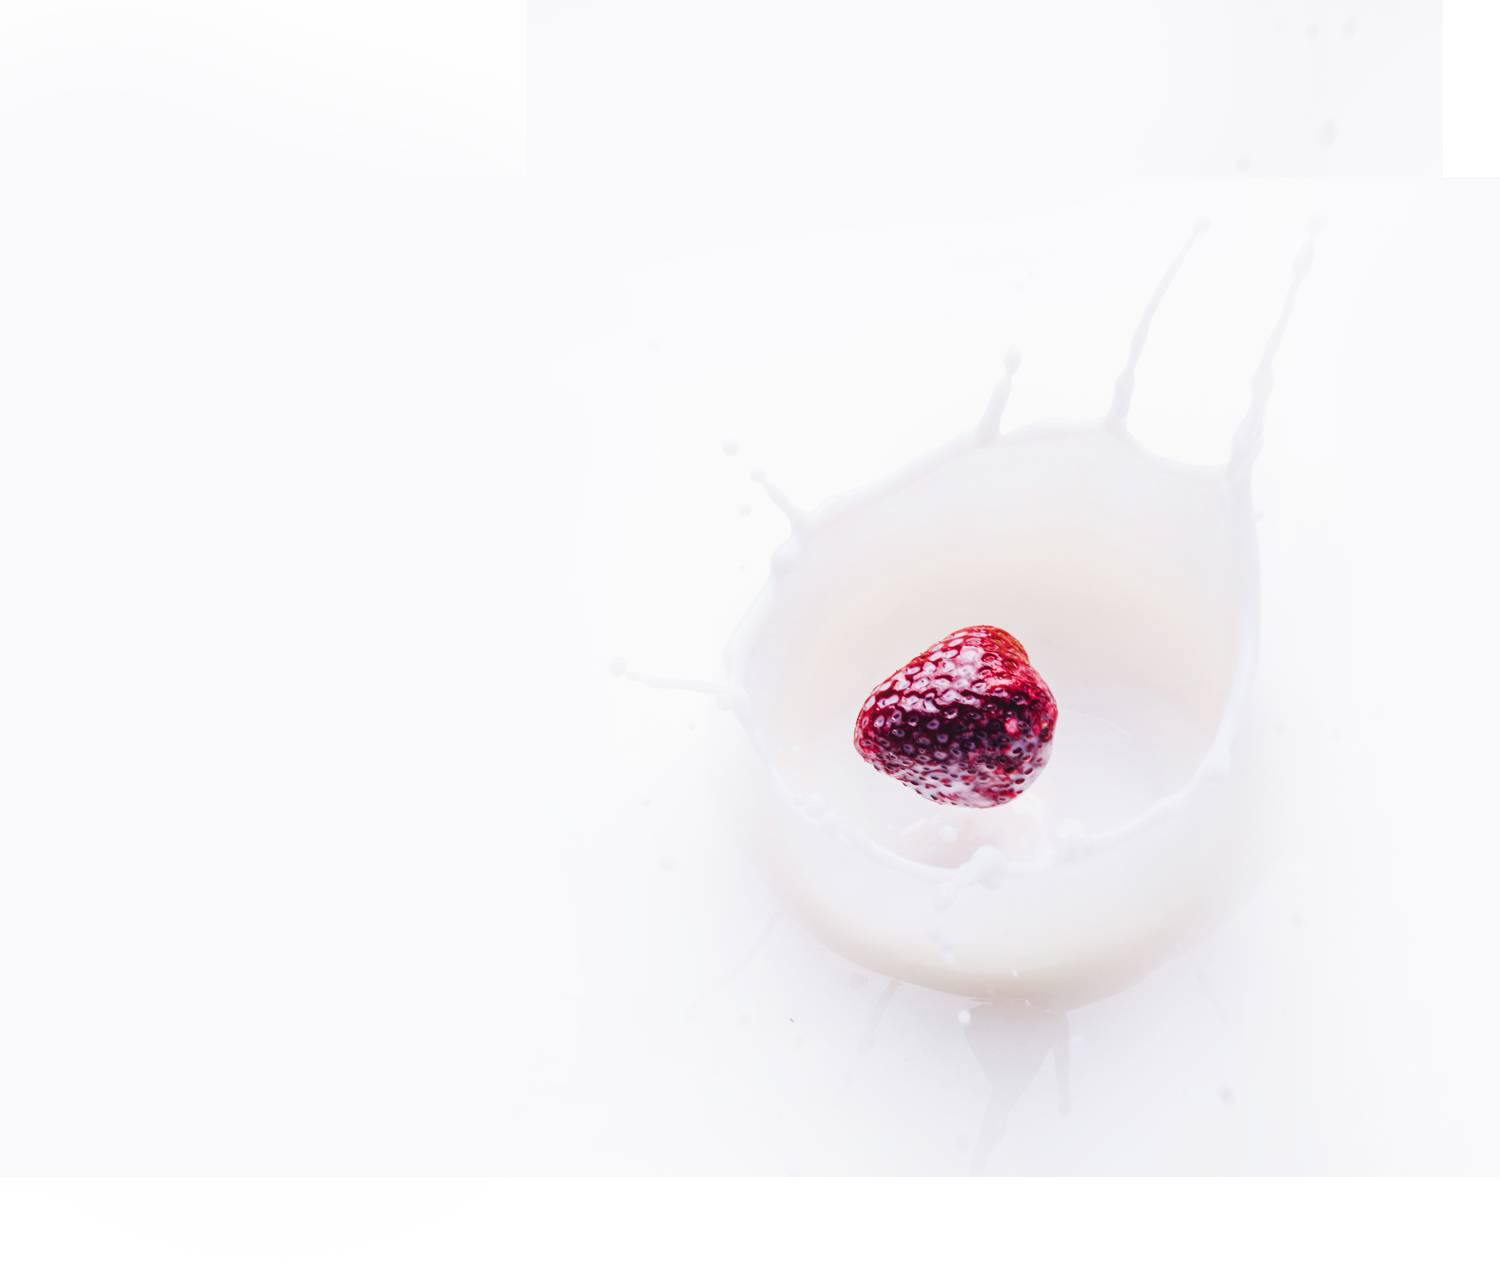
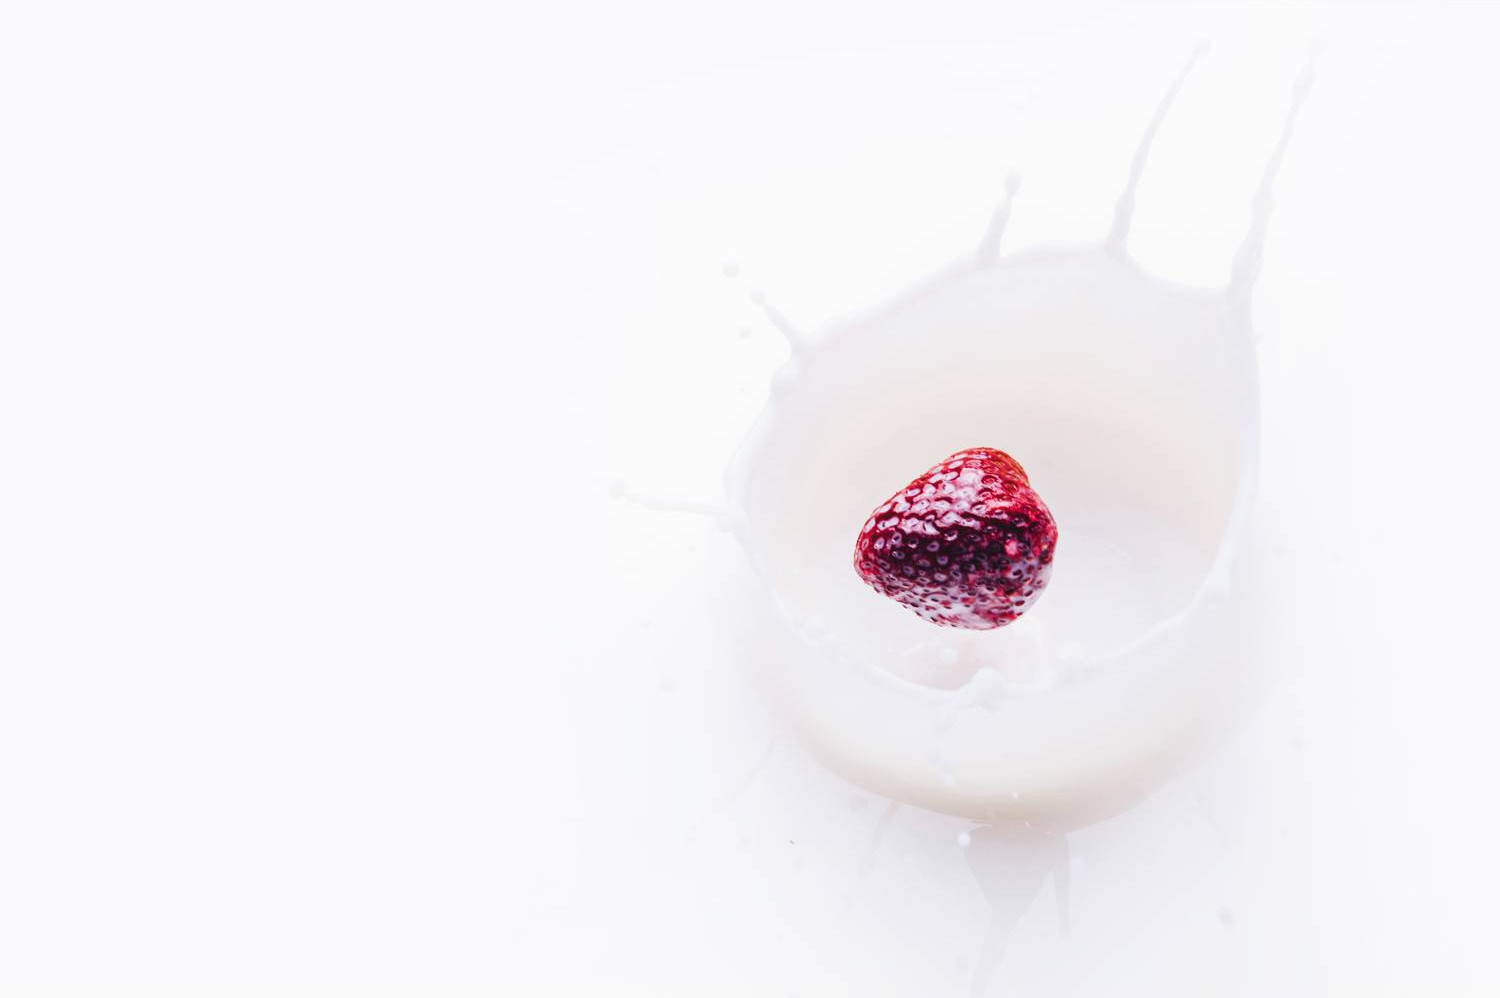
Add utilities to make sections more responsive (#8)
* Extract setting default paragraph font

* Make section padding more responsive

* Remove unused v-center class

* Fix cascade

* Extract global styles

* Trim image

* Remove confusing top margins

* Use different horizontal padding

* Prevent background image from interfering with text

* Extract variable

* Move global Less variables to global.less

* Ensure mobile menu takes up entire viewport width

Changed region(s): [[0.552, 0.4349, 0.7053, 0.6523], [0.6133, 0.7455, 0.736, 0.8387]]

diff --git a/src/index.html b/src/index.html
@@ -12,50 +12,44 @@
 
   <nav class="navbar navbar-default navbar-fixed-top">
     <div class="container">
-      <div class="v-center-container">
-        <div class="v-center">
-          <div class="navbar-header">
-            <a href="#" class="navbar-brand navbar-left">Cahee</a>
-            <div class="navbar-right">
-              <button type="button"
-                      class="navbar-toggle collapsed"
-                      data-toggle="collapse"
-                      data-target="#navbar-collapse"
-                      aria-expanded="false">
-                <span class="sr-only">Toggle navigation</span>
-                <span class="icon-bar"></span>
-                <span class="icon-bar"></span>
-                <span class="icon-bar"></span>
-              </button>
-            </div>
-          </div>
+      <div class="navbar-header">
+        <a href="#" class="navbar-brand navbar-left">Cahee</a>
+        <div class="navbar-right">
+          <button type="button"
+                  class="navbar-toggle collapsed"
+                  data-toggle="collapse"
+                  data-target="#navbar-collapse"
+                  aria-expanded="false">
+            <span class="sr-only">Toggle navigation</span>
+            <span class="icon-bar"></span>
+            <span class="icon-bar"></span>
+            <span class="icon-bar"></span>
+          </button>
         </div>
-        <div class="collapse navbar-collapse" id="navbar-collapse">
-          <div class="navbar-right">
-            <ul class="nav navbar-nav">
-              <li class="active"><a href="#">Home <span class="sr-only">(current)</span></a></li>
-              <li><a href="#">About</a></li>
-              <li><a href="#">Services</a></li>
-              <li><a href="#">Gallery</a></li>
-              <li><a href="#">Blog</a></li>
-              <li><a href="#">Contact</a></li>
-            </ul>
-          </div>
+      </div>
+      <div class="collapse navbar-collapse" id="navbar-collapse">
+        <div class="navbar-right">
+          <ul class="nav navbar-nav">
+            <li class="active"><a href="#">Home <span class="sr-only">(current)</span></a></li>
+            <li><a href="#">About</a></li>
+            <li><a href="#">Services</a></li>
+            <li><a href="#">Gallery</a></li>
+            <li><a href="#">Blog</a></li>
+            <li><a href="#">Contact</a></li>
+          </ul>
         </div>
       </div>
     </div>
   </nav>
 
-  <section class="section-fresh-life v-center-container">
-    <div class="v-center">
-      <div class="container">
-        <h1>Fresh Life</h1>
-        <p>
-          Sed do eiusmod tempor incididunt ut labore et dolore magna aliqua. Ut enim ad minim veniam, quis nostrud
-          exercitation ullamco.
-        </p>
-        <button class="btn btn-lg btn-orange text-uppercase">Get Free Now</button>
-      </div>
+  <section class="section fresh-life">
+    <div class="container">
+      <h1>Fresh Life</h1>
+      <p>
+        Sed do eiusmod tempor incididunt ut labore et dolore magna aliqua. Ut enim ad minim veniam, quis nostrud
+        exercitation ullamco.
+      </p>
+      <button class="btn btn-lg btn-orange text-uppercase">Get Free Now</button>
     </div>
   </section>
 

diff --git a/src/styles/fresh-life.less b/src/styles/fresh-life.less
@@ -1,0 +1,24 @@
+.fresh-life {
+  background: url(assets/strawberry.jpg) center/cover;
+
+  @media (max-width: @screen-xs-max) {
+    background-position: 100px;
+    padding-top: @navbar-height-shrunk + @min-section-padding-vertical;
+  }
+
+  @media (min-width: @screen-sm-min) {
+    padding-bottom: 404px;
+    padding-top: 330px;
+  }
+
+  h1 {
+    font-size: 60px;
+    font-weight: 900;
+    margin-bottom: 16px;
+  }
+
+  p {
+    margin-bottom: 35px;
+    max-width: 370px;
+  }
+}

diff --git a/src/styles/index.less b/src/styles/index.less
@@ -1,15 +1,6 @@
 @import "../../vendor/bootstrap/less/bootstrap";
-@import "v-center";
+@import "global";
+@import "section";
 @import "navbar";
-@import "section-fresh-life";
+@import "fresh-life";
 @import "btn";
-
-@transition-duration: 0.3s;
-
-// Bootstrap variables
-@body-bg: #f9f8fb;
-@font-family-sans-serif: Raleway, sans-serif;
-@font-size-base: 16px;
-@text-color: #262626;
-@link-color: @text-color;
-@link-hover-color: lighten(@link-color, 25%);

diff --git a/src/styles/global.less b/src/styles/global.less
@@ -1,0 +1,14 @@
+@transition-duration: 0.3s;
+
+// Bootstrap variables
+@body-bg: #f9f8fb;
+@font-family-sans-serif: Raleway, sans-serif;
+@font-size-base: 16px;
+@text-color: #262626;
+@link-color: @text-color;
+@link-hover-color: lighten(@link-color, 25%);
+
+p {
+  font-size: 17px;
+  font-weight: 300;
+}

diff --git a/src/styles/section.less b/src/styles/section.less
@@ -1,0 +1,10 @@
+@min-section-padding-vertical: 40px;
+@min-section-padding-horizontal: @min-section-padding-vertical / 4;
+
+.section {
+  padding: @min-section-padding-vertical @min-section-padding-horizontal;
+
+  * {
+    margin-top: 0;
+  }
+}

diff --git a/src/styles/navbar/navbar-vars.less b/src/styles/navbar/navbar-vars.less
@@ -13,3 +13,4 @@
 
 // Custom variables
 @navbar-shrink-by: 80px;
+@navbar-height-shrunk: @navbar-height - @navbar-shrink-by;

diff --git a/src/styles/navbar.less b/src/styles/navbar.less
@@ -51,7 +51,6 @@
       position: absolute;
       right: 0;
       top: 100px;
-      width: 100%;
     }
   }
 }
